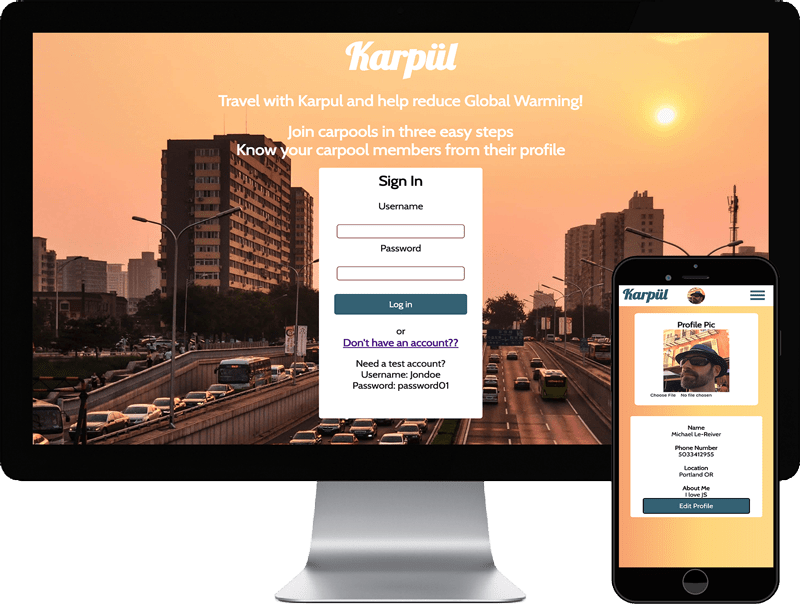
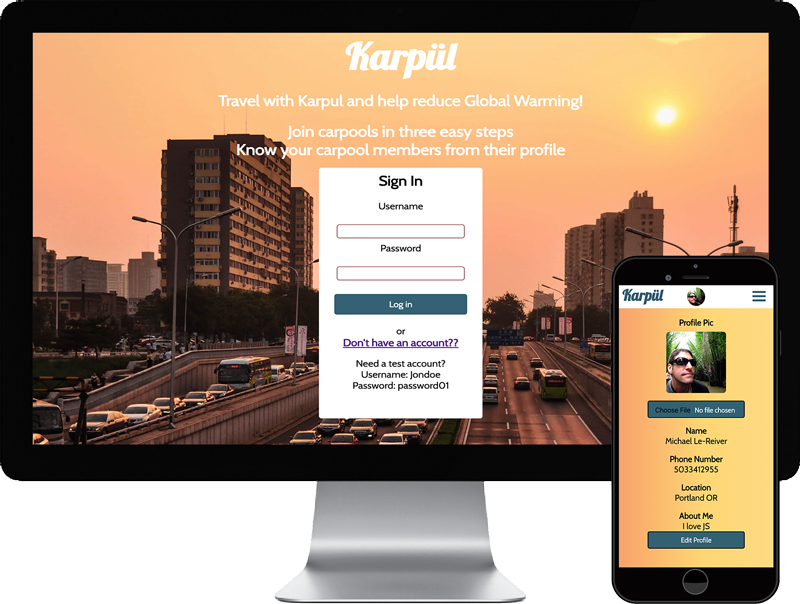
updated karpul screenshot

Changed region(s): [[0.7812, 0.4768, 0.9688, 0.9238]]

diff --git a/src/components/projects/projects.js b/src/components/projects/projects.js
@@ -10,7 +10,7 @@ render() {
       <hr />
       <div className="project-block">
         <div className="project-image desktop-mobile">
-          <img src={require("../../images/karpul_desktop_phone.png")}alt="Karpul"></img>
+          <img src={require("../../images/karpul_desktop_phone_2.png")}alt="Karpul"></img>
         </div>
         <div className="project-desc desktop-mobile">
           <h2>Karpul</h2>
